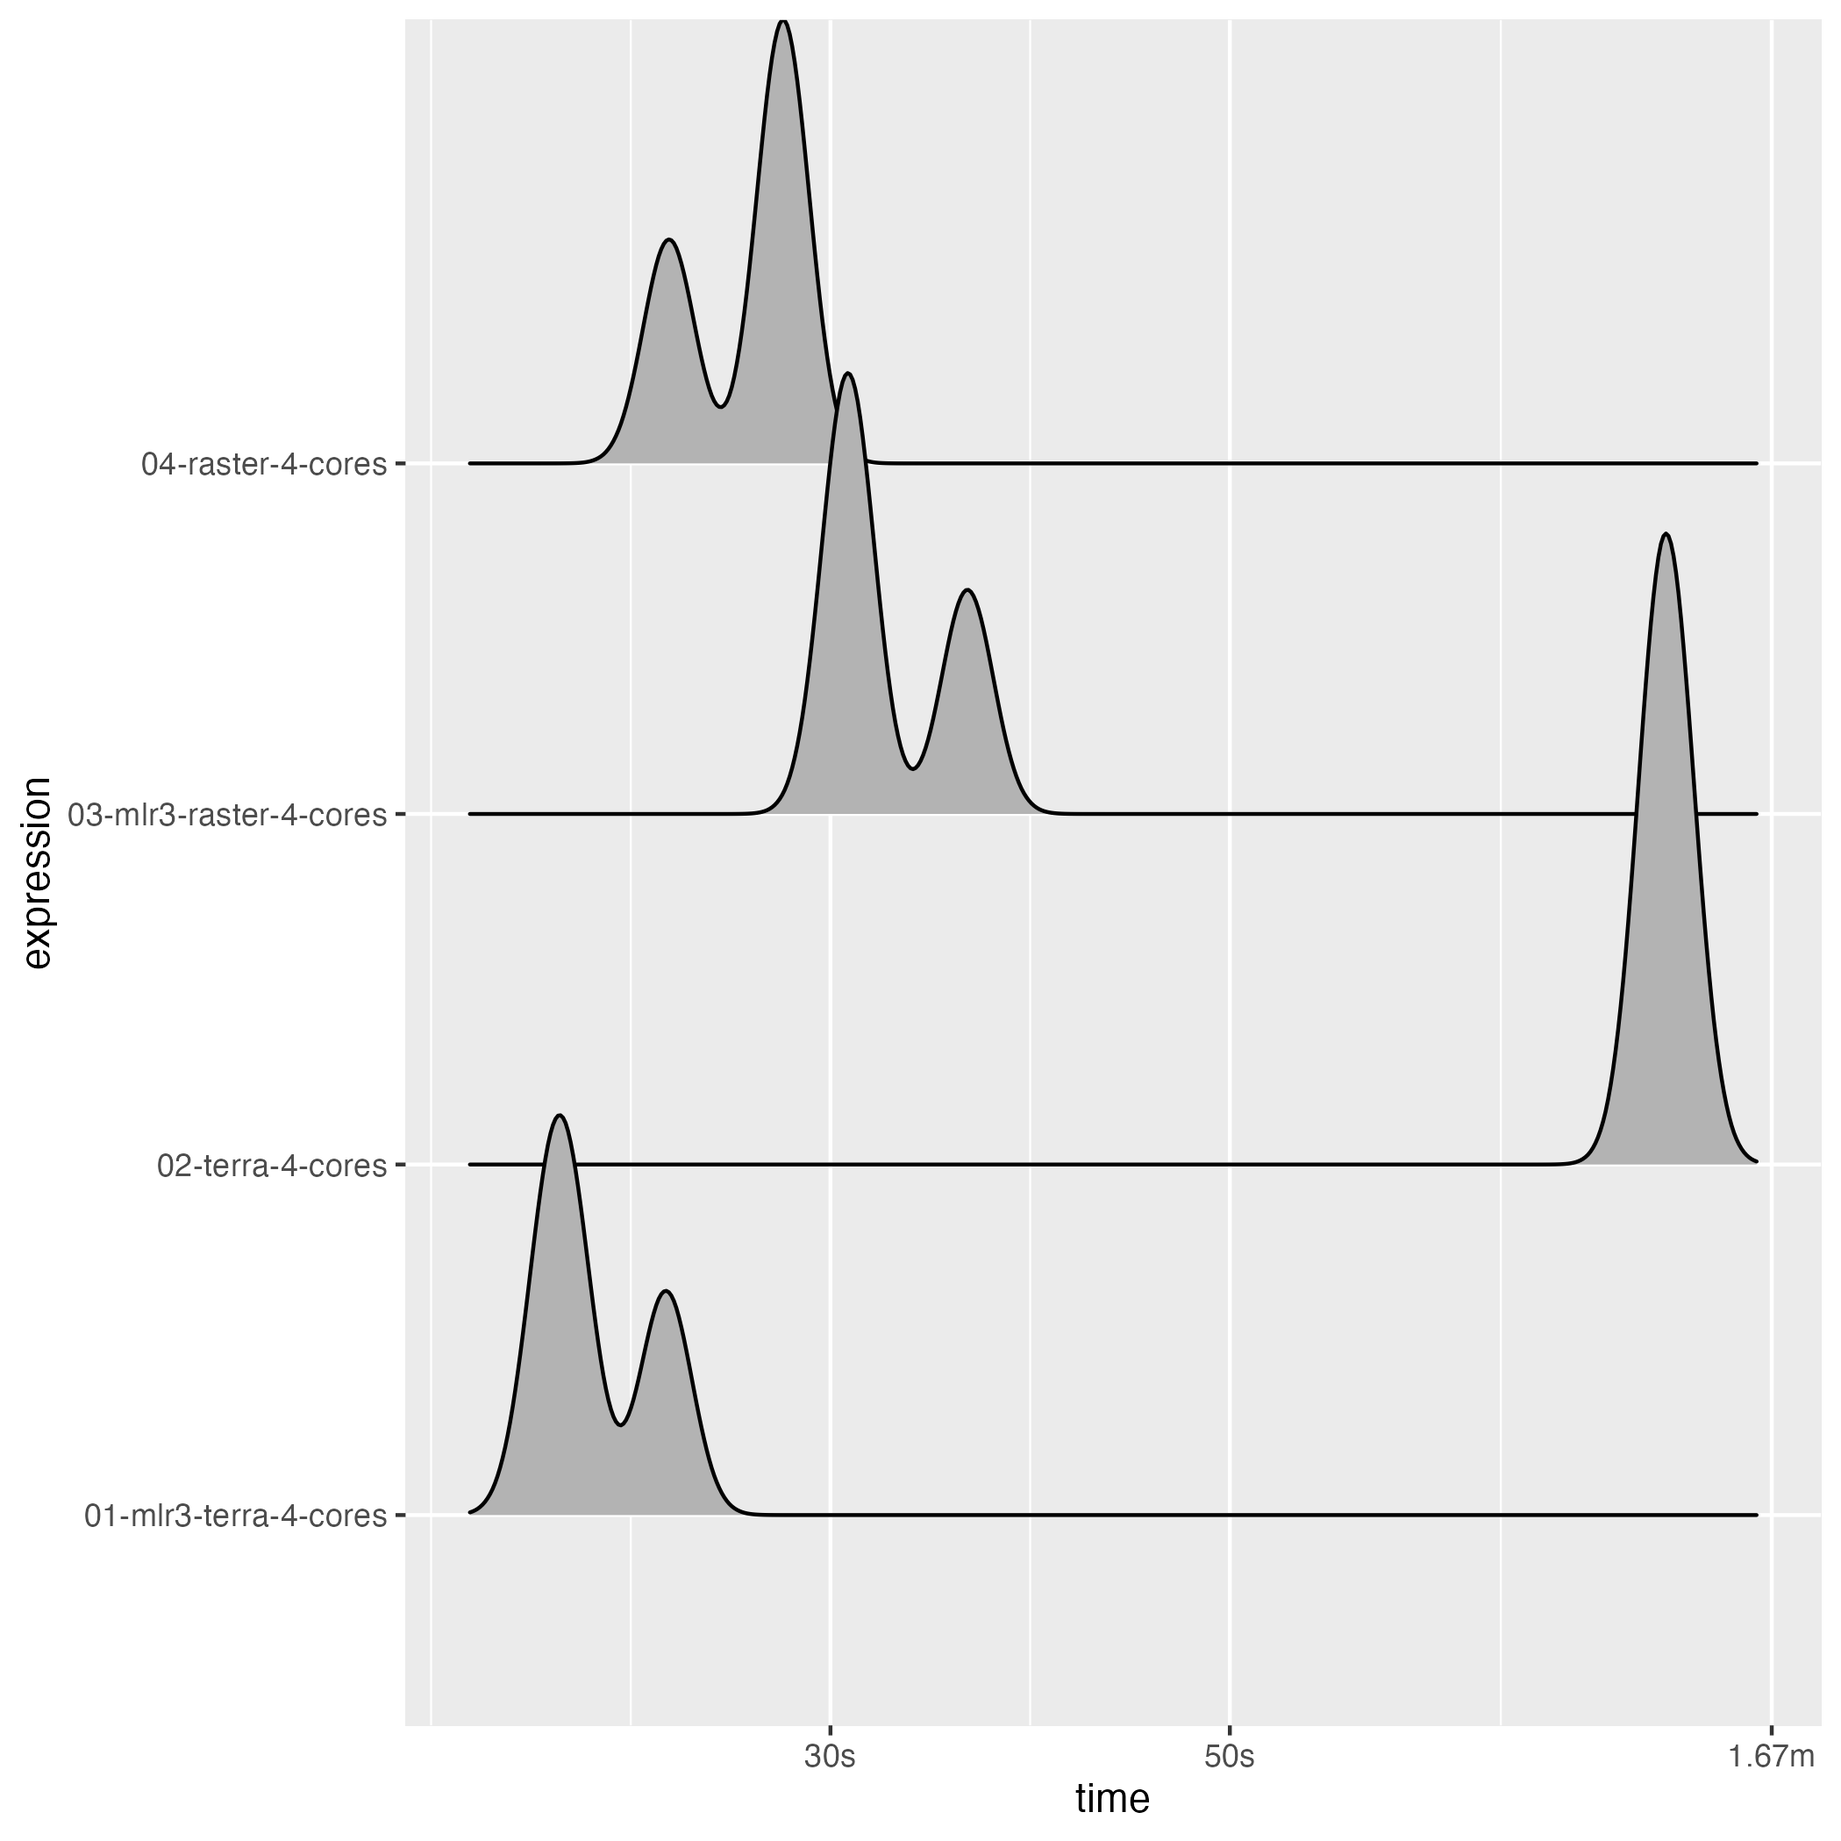
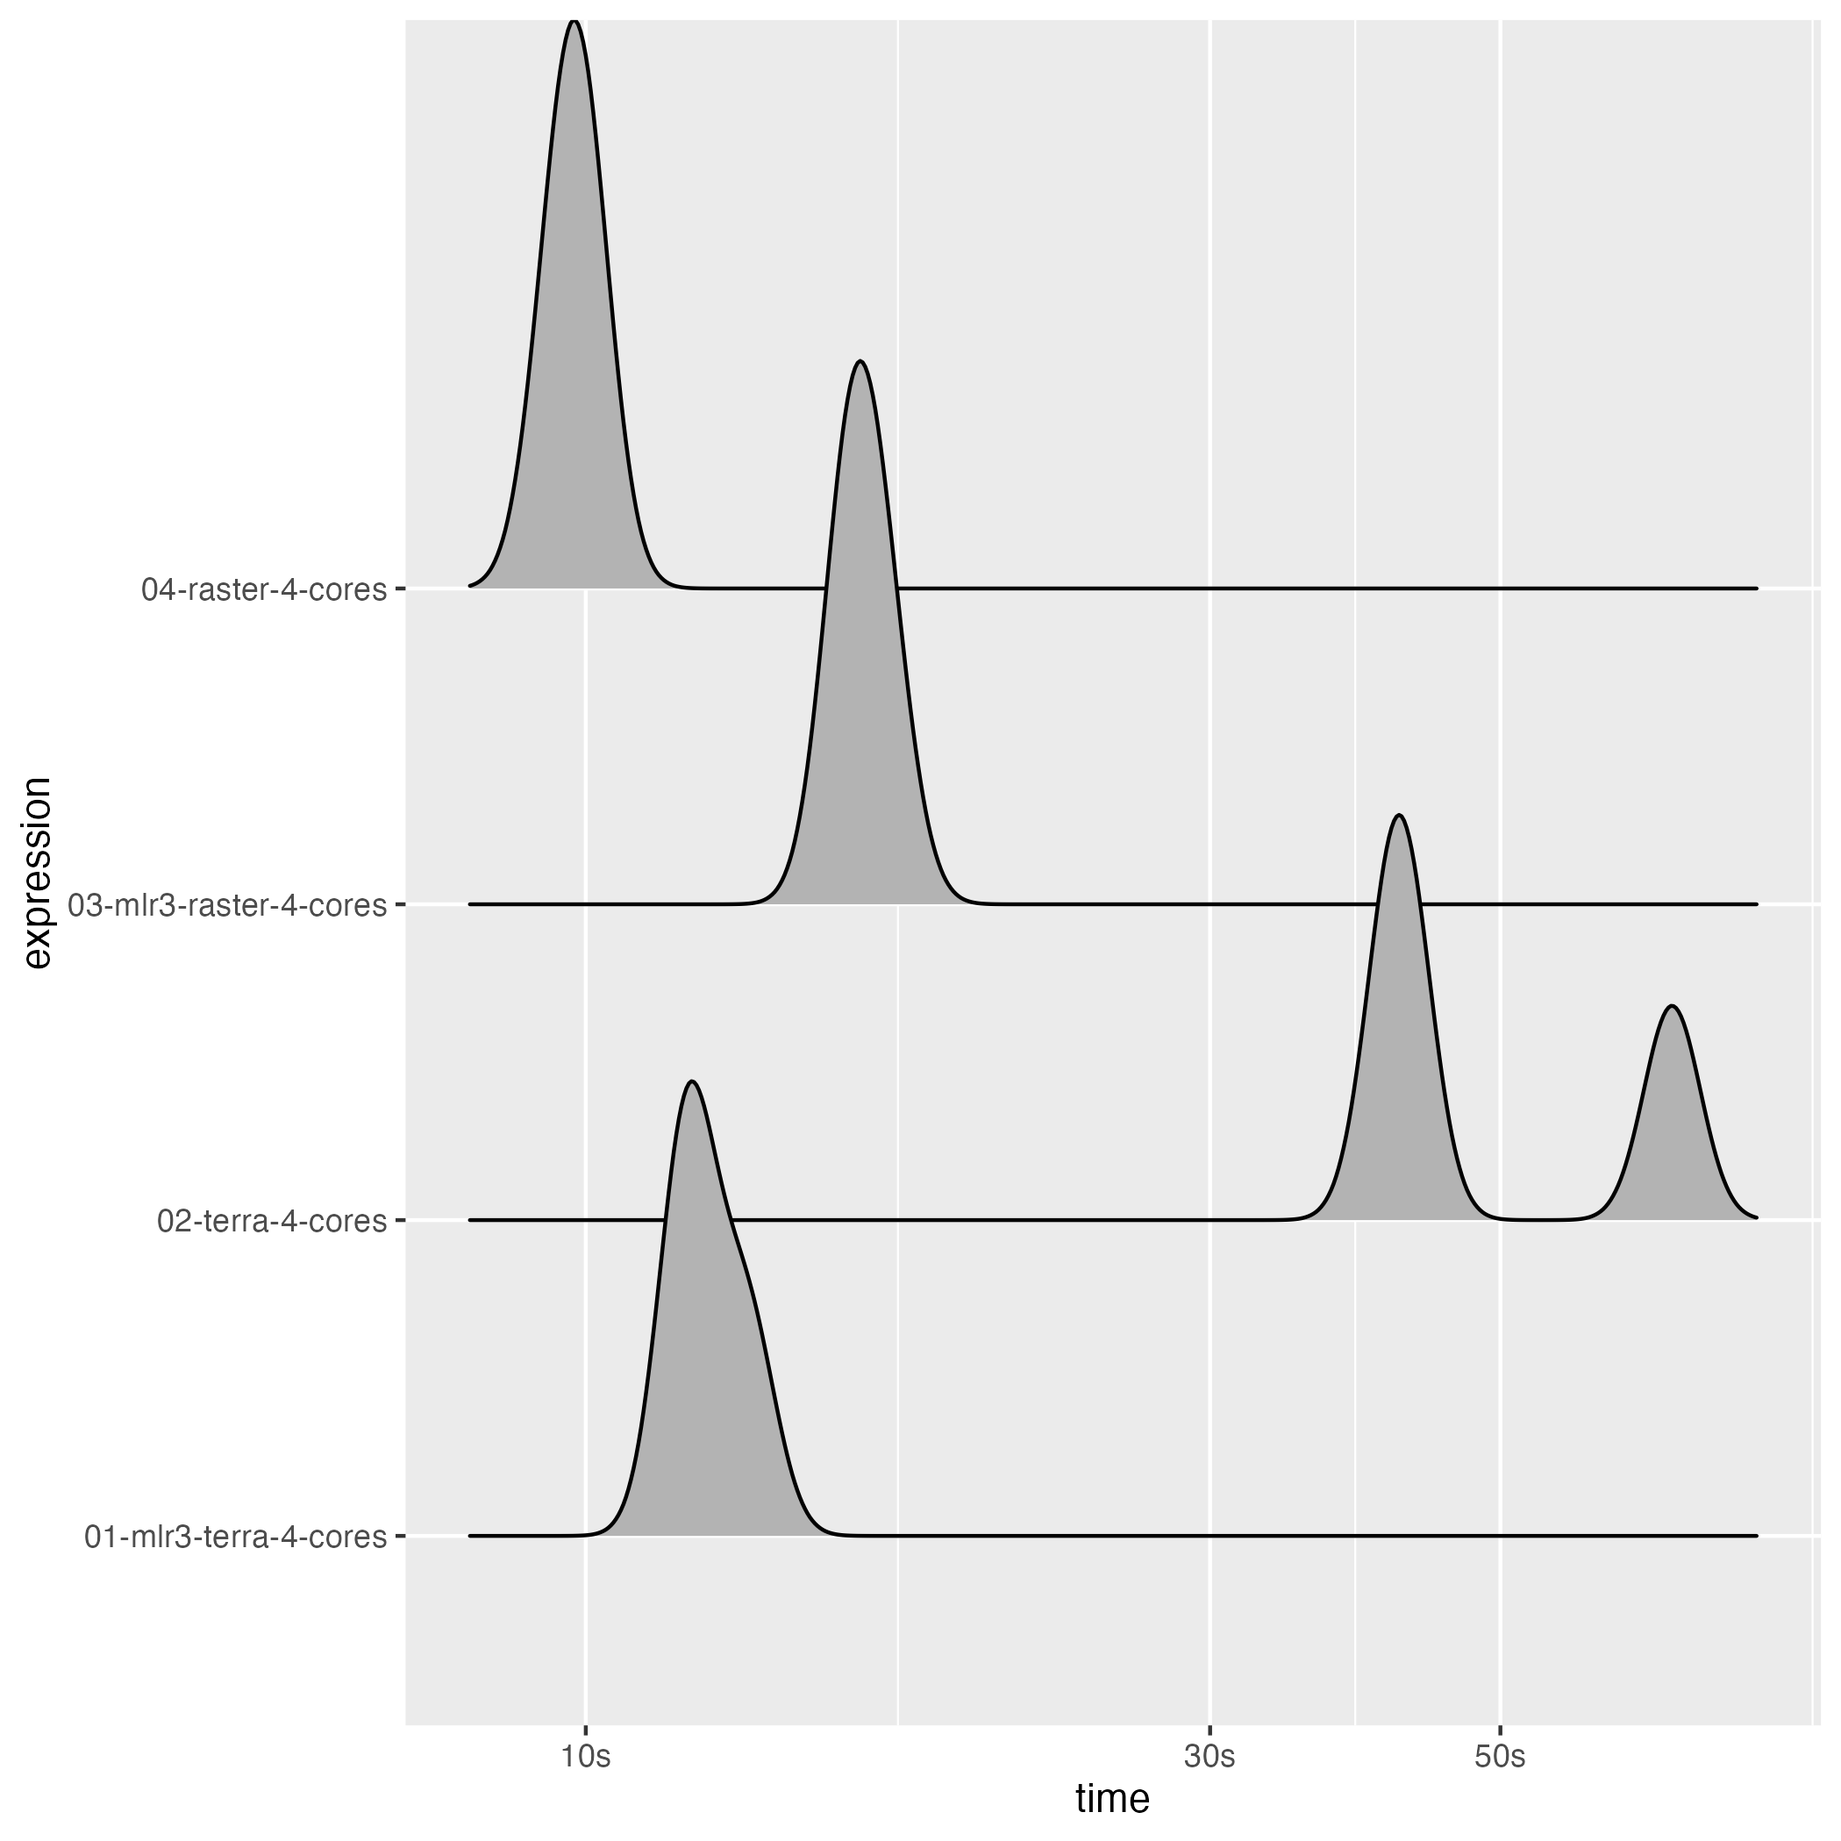
Deploy from Github Actions build 2379900774 [ci skip]
Build URL: https://github.com/mlr-org/mlr3spatial/actions/runs/2379900774
Commit: f8b22505f00a21190800ab72b1d69448cac64402

diff --git a/articles/benchmark.html b/articles/benchmark.html
@@ -118,10 +118,10 @@
 
     
     
-<p>This benchmark was run on a MacBook Pro 2020 with the following specs</p>
+<p>This benchmark was run on a MacBook Pro 2021 (arm64) with the following specs</p>
 <ul>
-<li>Intel i7-1068NG7 (8) @ 2.30GHz</li>
-<li>32 GB DDR4 RAM</li>
+<li>M1 Pro</li>
+<li>32 GB RAM</li>
 </ul>
 <p>Note that the differences between the parallel and sequential timings will increase for larger objects as the overhead for starting the parallel workers and collecting the results will decrease.</p>
 <p>It is not fully clear why the parallel approach of the {terra} package is slow than its sequential counterpart but it might relate to the single-core performance of the machine the benchmark was run on in combination with the overhead associated with starting the parallel cluster the way it is done in the {terra} package.</p>
@@ -133,7 +133,7 @@
 <span class="kw"><a href="https://rdrr.io/r/base/library.html" class="external-link">library</a></span><span class="op">(</span><span class="va"><a href="https://r-spatial.github.io/stars/" class="external-link">stars</a></span><span class="op">)</span>
 <span class="co">#&gt; Loading required package: abind</span>
 <span class="co">#&gt; Loading required package: sf</span>
-<span class="co">#&gt; Linking to GEOS 3.9.1, GDAL 3.3.1, PROJ 8.1.0</span>
+<span class="co">#&gt; Linking to GEOS 3.9.1, GDAL 3.4.2, PROJ 8.2.1; sf_use_s2() is TRUE</span>
 <span class="kw"><a href="https://rdrr.io/r/base/library.html" class="external-link">library</a></span><span class="op">(</span><span class="va"><a href="https://github.com/bethatkinson/rpart" class="external-link">rpart</a></span><span class="op">)</span></code></pre></div>
 <div class="section level2">
 <h2 id="small-files">Small files<a class="anchor" aria-label="anchor" href="#small-files"></a>
@@ -166,7 +166,7 @@
 <span class="va">stack_raster</span> <span class="op">=</span> <span class="fu">raster</span><span class="fu">::</span><span class="fu"><a href="https://rdrr.io/pkg/raster/man/brick.html" class="external-link">brick</a></span><span class="op">(</span><span class="va">file_raster</span><span class="op">)</span>
 <span class="fu"><a href="https://rdrr.io/r/base/names.html" class="external-link">names</a></span><span class="op">(</span><span class="va">stack_raster</span><span class="op">)</span> <span class="op">=</span> <span class="va">colnames_raster</span>
 <span class="va">backend_raster</span> <span class="op">=</span> <span class="va"><a href="../reference/DataBackendRaster.html">DataBackendRaster</a></span><span class="op">$</span><span class="fu">new</span><span class="op">(</span><span class="va">stack_raster</span><span class="op">)</span>
-<span class="co">#&gt; Warning in wkt(from): no wkt comment</span>
+<span class="co">#&gt; Warning in raster::wkt(from): no wkt comment</span>
 <span class="va">task_raster</span> <span class="op">=</span> <span class="fu"><a href="https://mlr3.mlr-org.com/reference/as_task_regr.html" class="external-link">as_task_regr</a></span><span class="op">(</span><span class="va">backend_raster</span>, target <span class="op">=</span> <span class="st">"x_1"</span><span class="op">)</span>
 
 <span class="co"># Train learners</span>
@@ -209,14 +209,6 @@
   check <span class="op">=</span> <span class="cn">FALSE</span>, filter_gc <span class="op">=</span> <span class="cn">FALSE</span>, min_iterations <span class="op">=</span> <span class="fl">3</span>,
   max_iterations <span class="op">=</span> <span class="fl">3</span>, memory <span class="op">=</span> <span class="cn">FALSE</span><span class="op">)</span>
 <span class="co">#&gt; Loading required package: sp</span>
-<span class="co">#&gt; </span>
-<span class="co">#&gt; Attaching package: 'raster'</span>
-<span class="co">#&gt; The following object is masked from 'package:future':</span>
-<span class="co">#&gt; </span>
-<span class="co">#&gt;     values</span>
-<span class="co">#&gt; The following object is masked from 'package:mlr3':</span>
-<span class="co">#&gt; </span>
-<span class="co">#&gt;     resample</span>
 
 <span class="va">bm</span><span class="op">$</span><span class="va">`itr/sec`</span> <span class="op">=</span> <span class="cn">NULL</span>
 <span class="va">bm</span><span class="op">$</span><span class="va">result</span> <span class="op">=</span> <span class="cn">NULL</span>
@@ -228,15 +220,15 @@
 <span class="co">#&gt; # A tibble: 4 × 8</span>
 <span class="co">#&gt;   expression                  min   median n_itr  n_gc total_time time           gc              </span>
 <span class="co">#&gt;   &lt;bch:expr&gt;             &lt;bch:tm&gt; &lt;bch:tm&gt; &lt;int&gt; &lt;dbl&gt;   &lt;bch:tm&gt; &lt;list&gt;         &lt;list&gt;          </span>
-<span class="co">#&gt; 1 01-mlr3-terra-4-cores     2.44s    2.49s     3    35      7.45s &lt;bench_tm [3]&gt; &lt;tibble [3 × 3]&gt;</span>
-<span class="co">#&gt; 2 02-terra-4-cores         17.16s   17.22s     3    26      52.7s &lt;bench_tm [3]&gt; &lt;tibble [3 × 3]&gt;</span>
-<span class="co">#&gt; 3 03-mlr3-raster-4-cores    3.25s     3.5s     3    34     10.42s &lt;bench_tm [3]&gt; &lt;tibble [3 × 3]&gt;</span>
-<span class="co">#&gt; 4 04-raster-4-cores          8.3s    8.74s     3     1     25.94s &lt;bench_tm [3]&gt; &lt;tibble [3 × 3]&gt;</span></code></pre></div>
+<span class="co">#&gt; 1 01-mlr3-terra-4-cores  852.65ms 915.91ms     3    22      2.77s &lt;bench_tm [3]&gt; &lt;tibble [3 × 3]&gt;</span>
+<span class="co">#&gt; 2 02-terra-4-cores          9.54s     9.7s     3    34        29s &lt;bench_tm [3]&gt; &lt;tibble [3 × 3]&gt;</span>
+<span class="co">#&gt; 3 03-mlr3-raster-4-cores    1.72s     1.8s     3    28       5.5s &lt;bench_tm [3]&gt; &lt;tibble [3 × 3]&gt;</span>
+<span class="co">#&gt; 4 04-raster-4-cores         3.76s    3.79s     3     1     11.41s &lt;bench_tm [3]&gt; &lt;tibble [3 × 3]&gt;</span></code></pre></div>
 <div class="sourceCode" id="cb4"><pre class="downlit sourceCode r">
 <code class="sourceCode R"><span class="kw"><a href="https://rdrr.io/r/base/library.html" class="external-link">library</a></span><span class="op">(</span><span class="va"><a href="https://ggplot2.tidyverse.org" class="external-link">ggplot2</a></span><span class="op">)</span>
 <span class="fu">autoplot</span><span class="op">(</span><span class="va">bm</span>, type <span class="op">=</span> <span class="st">"ridge"</span><span class="op">)</span>
 <span class="co">#&gt; Loading required namespace: tidyr</span>
-<span class="co">#&gt; Picking joint bandwidth of 0.00863</span></code></pre></div>
+<span class="co">#&gt; Picking joint bandwidth of 0.0103</span></code></pre></div>
 <p><img src="plot-benchmark-small-1.png"></p>
 </div>
 <div class="section level2">
@@ -270,7 +262,7 @@
 <span class="va">stack_raster</span> <span class="op">=</span> <span class="fu">raster</span><span class="fu">::</span><span class="fu"><a href="https://rdrr.io/pkg/raster/man/brick.html" class="external-link">brick</a></span><span class="op">(</span><span class="va">file_raster</span><span class="op">)</span>
 <span class="fu"><a href="https://rdrr.io/pkg/raster/man/names.html" class="external-link">names</a></span><span class="op">(</span><span class="va">stack_raster</span><span class="op">)</span> <span class="op">=</span> <span class="va">colnames_raster</span>
 <span class="va">backend_raster</span> <span class="op">=</span> <span class="va"><a href="../reference/DataBackendRaster.html">DataBackendRaster</a></span><span class="op">$</span><span class="fu">new</span><span class="op">(</span><span class="va">stack_raster</span><span class="op">)</span>
-<span class="co">#&gt; Warning in wkt(from): no wkt comment</span>
+<span class="co">#&gt; Warning in raster::wkt(from): no wkt comment</span>
 <span class="va">task_raster</span> <span class="op">=</span> <span class="fu"><a href="https://mlr3.mlr-org.com/reference/as_task_regr.html" class="external-link">as_task_regr</a></span><span class="op">(</span><span class="va">backend_raster</span>, target <span class="op">=</span> <span class="st">"x_1"</span><span class="op">)</span>
 
 <span class="co"># Train learners</span>
@@ -323,14 +315,14 @@
 <span class="co">#&gt; # A tibble: 4 × 8</span>
 <span class="co">#&gt;   expression                  min   median n_itr  n_gc total_time time           gc              </span>
 <span class="co">#&gt;   &lt;bch:expr&gt;             &lt;bch:tm&gt; &lt;bch:tm&gt; &lt;int&gt; &lt;dbl&gt;   &lt;bch:tm&gt; &lt;list&gt;         &lt;list&gt;          </span>
-<span class="co">#&gt; 1 01-mlr3-terra-4-cores    20.88s   21.55s     3   170      1.11m &lt;bench_tm [3]&gt; &lt;tibble [3 × 3]&gt;</span>
-<span class="co">#&gt; 2 02-terra-4-cores          1.44m    1.45m     3    27      4.37m &lt;bench_tm [3]&gt; &lt;tibble [3 × 3]&gt;</span>
-<span class="co">#&gt; 3 03-mlr3-raster-4-cores    30.5s   30.86s     3    38      1.62m &lt;bench_tm [3]&gt; &lt;tibble [3 × 3]&gt;</span>
-<span class="co">#&gt; 4 04-raster-4-cores         24.4s    28.1s     3     1      1.35m &lt;bench_tm [3]&gt; &lt;tibble [3 × 3]&gt;</span></code></pre></div>
+<span class="co">#&gt; 1 01-mlr3-terra-4-cores    11.93s   12.01s     3   167     37.23s &lt;bench_tm [3]&gt; &lt;tibble [3 × 3]&gt;</span>
+<span class="co">#&gt; 2 02-terra-4-cores         41.14s   42.54s     3    32      2.52m &lt;bench_tm [3]&gt; &lt;tibble [3 × 3]&gt;</span>
+<span class="co">#&gt; 3 03-mlr3-raster-4-cores   15.81s   16.09s     3    31     48.85s &lt;bench_tm [3]&gt; &lt;tibble [3 × 3]&gt;</span>
+<span class="co">#&gt; 4 04-raster-4-cores         9.46s    9.85s     3     0     29.36s &lt;bench_tm [3]&gt; &lt;tibble [3 × 3]&gt;</span></code></pre></div>
 <div class="sourceCode" id="cb7"><pre class="downlit sourceCode r">
 <code class="sourceCode R"><span class="kw"><a href="https://rdrr.io/r/base/library.html" class="external-link">library</a></span><span class="op">(</span><span class="va"><a href="https://ggplot2.tidyverse.org" class="external-link">ggplot2</a></span><span class="op">)</span>
 <span class="fu">autoplot</span><span class="op">(</span><span class="va">bm</span>, type <span class="op">=</span> <span class="st">"ridge"</span><span class="op">)</span>
-<span class="co">#&gt; Picking joint bandwidth of 0.0143</span></code></pre></div>
+<span class="co">#&gt; Picking joint bandwidth of 0.0215</span></code></pre></div>
 <p><img src="plot-benchmark-large-1.png"></p>
 </div>
   </main><aside class="col-md-3"><nav id="toc"><h2>On this page</h2>

diff --git a/reference/demo_stack_spatraster.html b/reference/demo_stack_spatraster.html
@@ -110,11 +110,11 @@ Number of layers.</p></dd>
 <span class="r-out co"><span class="r-pr">#&gt;</span> resolution  : 1, 1  (x, y)</span>
 <span class="r-out co"><span class="r-pr">#&gt;</span> extent      : 0, 790, 0, 790  (xmin, xmax, ymin, ymax)</span>
 <span class="r-out co"><span class="r-pr">#&gt;</span> coord. ref. :  </span>
-<span class="r-out co"><span class="r-pr">#&gt;</span> sources     : filec48a12b61f3b.tif  </span>
-<span class="r-out co"><span class="r-pr">#&gt;</span>               filec48a3ae2c96.tif  </span>
+<span class="r-out co"><span class="r-pr">#&gt;</span> sources     : file3b4b6bcb5ba0.tif  </span>
+<span class="r-out co"><span class="r-pr">#&gt;</span>               file3b4b62949aae.tif  </span>
 <span class="r-out co"><span class="r-pr">#&gt;</span> names       :       x_1,         y </span>
-<span class="r-out co"><span class="r-pr">#&gt;</span> min values  : -4.602304,  0.000000 </span>
-<span class="r-out co"><span class="r-pr">#&gt;</span> max values  :  5.563171,  1.000000 </span>
+<span class="r-out co"><span class="r-pr">#&gt;</span> min values  : -4.771444,  0.000000 </span>
+<span class="r-out co"><span class="r-pr">#&gt;</span> max values  :  5.638045,  1.000000 </span>
 </code></pre></div>
     </div>
   </main><aside class="col-md-3"><nav id="toc"><h2>On this page</h2>

diff --git a/reference/predict_spatial.html b/reference/predict_spatial.html
@@ -162,10 +162,10 @@ users, <code>plan(future.callr::callr)</code> might be an alternative.</p>
 <span class="r-out co"><span class="r-pr">#&gt;</span> resolution  : 1, 1  (x, y)</span>
 <span class="r-out co"><span class="r-pr">#&gt;</span> extent      : 0, 223, 0, 223  (xmin, xmax, ymin, ymax)</span>
 <span class="r-out co"><span class="r-pr">#&gt;</span> coord. ref. :  </span>
-<span class="r-out co"><span class="r-pr">#&gt;</span> source      : filec48a365e585e.tif </span>
+<span class="r-out co"><span class="r-pr">#&gt;</span> source      : file3b4b41a2c95b.tif </span>
 <span class="r-out co"><span class="r-pr">#&gt;</span> name        : lyr.1 </span>
-<span class="r-out co"><span class="r-pr">#&gt;</span> min value   :     2 </span>
-<span class="r-out co"><span class="r-pr">#&gt;</span> max value   :     2 </span>
+<span class="r-out co"><span class="r-pr">#&gt;</span> min value   :     1 </span>
+<span class="r-out co"><span class="r-pr">#&gt;</span> max value   :     1 </span>
 </code></pre></div>
     </div>
   </main><aside class="col-md-3"><nav id="toc"><h2>On this page</h2>

diff --git a/reference/demo_stack_rasterbrick.html b/reference/demo_stack_rasterbrick.html
@@ -114,8 +114,8 @@ Number of layers.</p></dd>
 <span class="r-out co"><span class="r-pr">#&gt;</span> crs        : NA </span>
 <span class="r-out co"><span class="r-pr">#&gt;</span> source     : memory</span>
 <span class="r-out co"><span class="r-pr">#&gt;</span> names      :       x_1,         y </span>
-<span class="r-out co"><span class="r-pr">#&gt;</span> min values : -4.376732,  0.000000 </span>
-<span class="r-out co"><span class="r-pr">#&gt;</span> max values :  6.028715,  1.000000 </span>
+<span class="r-out co"><span class="r-pr">#&gt;</span> min values : -5.299725,  0.000000 </span>
+<span class="r-out co"><span class="r-pr">#&gt;</span> max values :   5.79487,   1.00000 </span>
 <span class="r-out co"><span class="r-pr">#&gt;</span> </span>
 </code></pre></div>
     </div>
